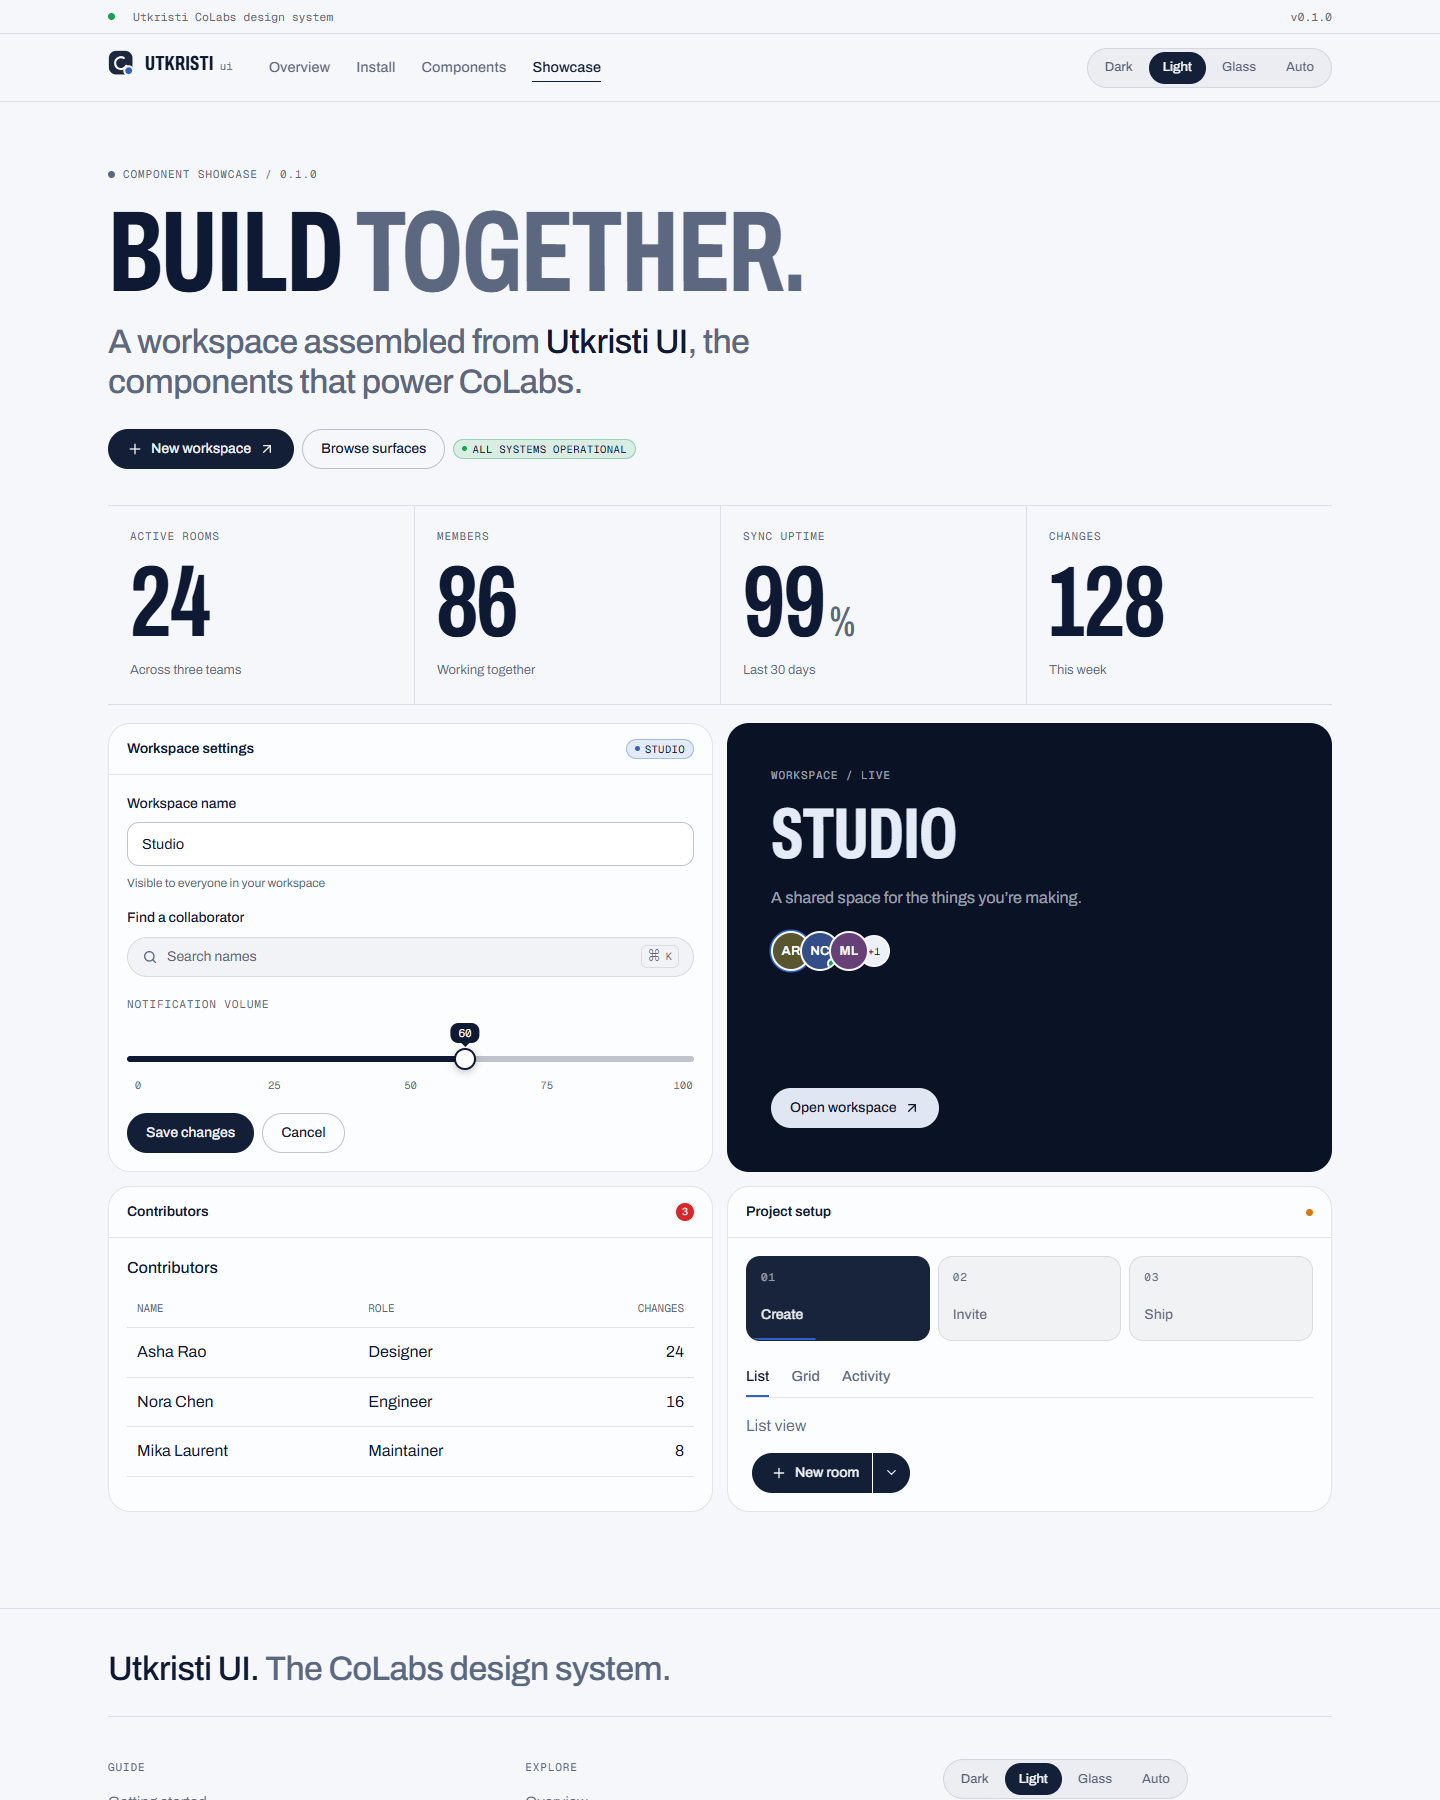
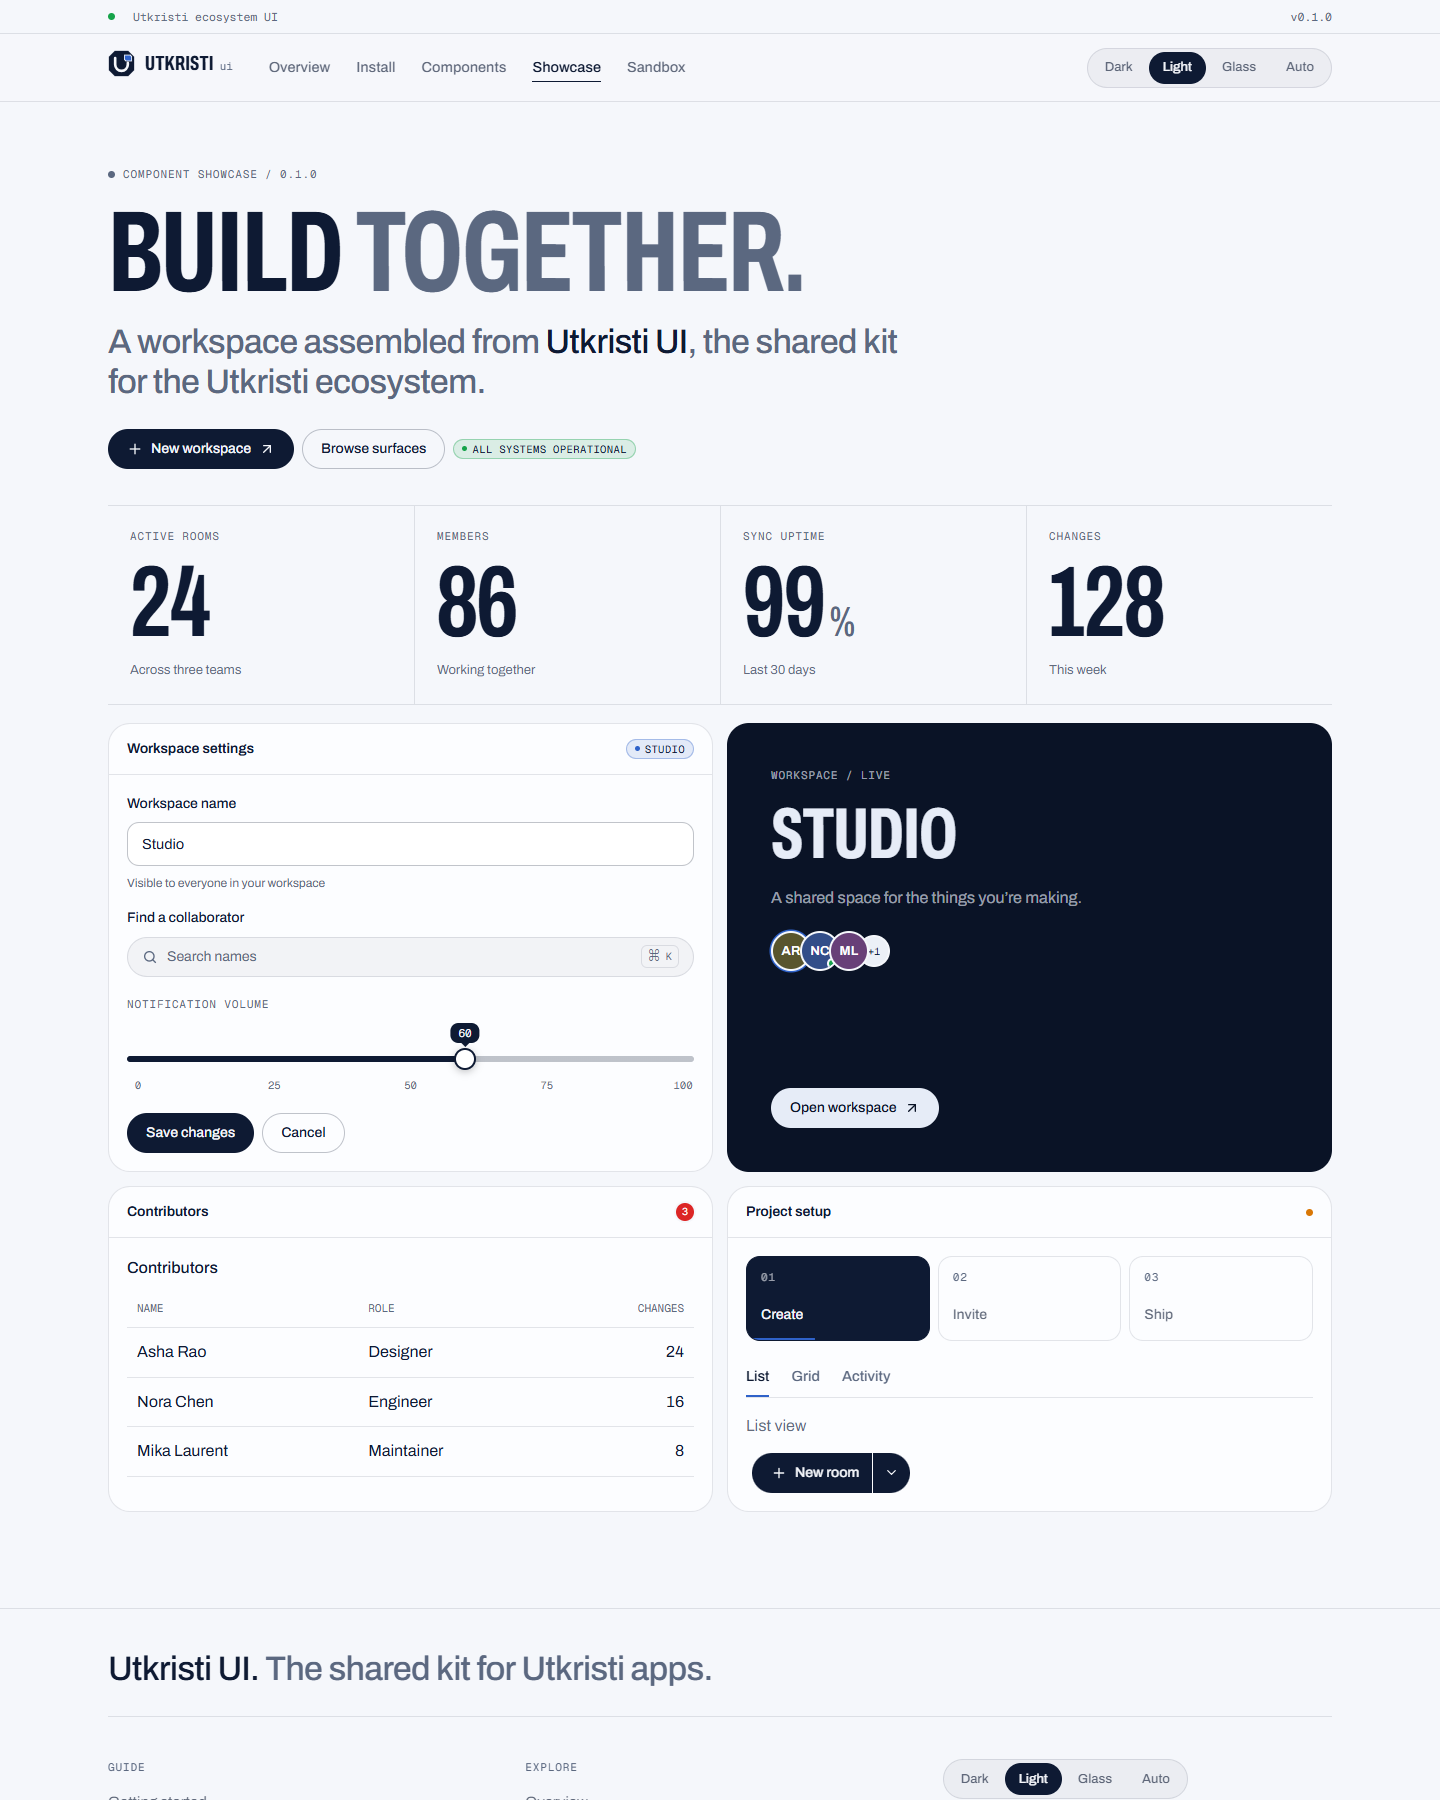
'v0.0.1'

diff --git a/docs/src/Playground.tsx b/docs/src/Playground.tsx
@@ -1,4 +1,4 @@
-import { useEffect, useRef, useState } from 'react';
+import { useEffect, useId, useRef, useState } from 'react';
 import { Button, Select, type ResolvedTheme, useTheme } from '@utkristi/ui';
 import { componentPages, examples as previews } from './examples';
 import { examples } from 'virtual:utkristi-examples';
@@ -15,6 +15,7 @@ interface Run { token: string; source: string; theme: ResolvedTheme; markup: boo
 
 export default function Playground({ component }: { component?: string }) {
   const { resolvedTheme } = useTheme();
+  const id = useId();
   const slug = component && Object.hasOwn(previews, component) ? component as keyof typeof previews : 'carousel';
   const example = previews[slug];
   const [theme, setTheme] = useState<ResolvedTheme>(resolvedTheme);
@@ -51,7 +52,7 @@ export default function Playground({ component }: { component?: string }) {
       }
       if (token !== String(requested.current)) return;
       setRun({ token, source: output, theme: previewTheme, markup: language === 'html' });
-      setStatus('Preview updated');
+      if (language === 'html') setStatus('HTML preview ready');
     } catch (cause) {
       if (token === String(requested.current)) setError(cause instanceof Error ? cause.message : String(cause));
     } finally {
@@ -62,15 +63,15 @@ export default function Playground({ component }: { component?: string }) {
   useEffect(() => {
     const initial = last.current;
     void compile(initial.code, initial.mode, initial.theme);
-    return () => { requested.current++; };
+    const pending = requested;
+    return () => { pending.current++; };
   }, []);
 
   useEffect(() => {
     function message(event: MessageEvent) {
-      if (event.source !== iframe.current?.contentWindow || event.data?.kind !== 'utkristi-preview-error'
-        || event.data.token !== run?.token) return;
-      setError(String(event.data.error));
-      setStatus('');
+      if (event.source !== iframe.current?.contentWindow || event.data?.token !== run?.token) return;
+      if (event.data?.kind === 'utkristi-preview-ready') setStatus('React preview ready');
+      if (event.data?.kind === 'utkristi-preview-error') { setError(String(event.data.error)); setStatus(''); }
     }
     window.addEventListener('message', message);
     return () => window.removeEventListener('message', message);
@@ -87,22 +88,22 @@ export default function Playground({ component }: { component?: string }) {
       <p className="lede">Edit a working example, run it in any theme, and copy the code into your app.</p>
     </header>
     <div className="playground-toolbar">
-      <label>Component<Select value={slug} onChange={(event) => {
+      <label htmlFor={id + "-component"}>Component<Select id={id + "-component"} value={slug} onChange={(event) => {
         window.location.hash = '/sandbox?component=' + encodeURIComponent(event.target.value);
       }}>{componentPages.map(([key, item]) => <option key={key} value={key}>{item.name}</option>)}</Select></label>
-      <label>Theme<Select value={theme} onChange={(event) => {
+      <label htmlFor={id + "-theme"}>Theme<Select id={id + "-theme"} value={theme} onChange={(event) => {
         const next = event.target.value as ResolvedTheme;
         setTheme(next);
         void compile(code, mode, next);
       }}><option value="dark">Night</option><option value="light">Paper</option><option value="glass">Glass</option></Select></label>
-      <label>Editor<Select value={mode} onChange={(event) => changeMode(event.target.value as 'react' | 'html')}>
+      <label htmlFor={id + "-mode"}>Editor<Select id={id + "-mode"} value={mode} onChange={(event) => changeMode(event.target.value as 'react' | 'html')}>
         <option value="react">React / TSX</option><option value="html">HTML / CSS / JS</option>
       </Select></label>
     </div>
     <div className="playground-result">
       <div className="playground-head"><span className="label">Live preview</span>
         <a className="link" href={`#/components/${slug}`}>Component docs</a></div>
-      {run ? <iframe key={run.token} ref={iframe} title={example.name + ' sandbox preview'} sandbox="allow-scripts"
+      {run ? <iframe key={run.token} ref={iframe} data-preview-run={run.token} title={example.name + ' sandbox preview'} sandbox="allow-scripts"
         srcDoc={run.markup ? frameHead.replace('<html>', '<html data-theme="' + run.theme + '">') + '<body>' + run.source + '</body></html>' : reactFrame}
         onLoad={() => {
           if (!run.markup) iframe.current?.contentWindow?.postMessage({

diff --git a/docs/playground-plugin.ts b/docs/playground-plugin.ts
@@ -76,11 +76,30 @@ function samples(file: string, text: string, recordName: string) {
   }));
 }
 
-function apiFor(source: string, requested: Set<string>) {
+function apiFor(docs: string, source: string, examples: ReturnType<typeof samples>) {
   const config = ts.readConfigFile(join(source, '../../tsconfig.json'), ts.sys.readFile);
   const options = ts.parseJsonConfigFileContent(config.config, ts.sys, join(source, '../..')).options;
   const entry = join(source, 'index.ts');
-  const program = ts.createProgram([entry], options);
+  const paths = new Map(Object.entries(examples).map(([key, example]) => [join(docs, 'src', key + '.example.tsx').replaceAll('\\', '/'), example.code]));
+  const host = ts.createCompilerHost(options);
+  const original = host.getSourceFile;
+  host.getSourceFile = (fileName, ...args) => {
+    const generated = paths.get(fileName.replaceAll('\\', '/')) ?? paths.get(fileName);
+    return generated === undefined ? original(fileName, ...args)
+      : ts.createSourceFile(fileName, generated, ts.ScriptTarget.Latest, true, ts.ScriptKind.TSX);
+  };
+  const program = ts.createProgram([entry, ...paths.keys()], options, host);
+  const failures = [...paths.keys()].flatMap((path) => {
+    const sample = program.getSourceFile(path);
+    if (!sample) throw new Error('Unable to load example ' + path);
+    return [...program.getSyntacticDiagnostics(sample), ...program.getSemanticDiagnostics(sample)];
+  });
+  if (failures.length) throw new Error(ts.formatDiagnosticsWithColorAndContext(failures, {
+    getCurrentDirectory: ts.sys.getCurrentDirectory,
+    getCanonicalFileName: (name) => name,
+    getNewLine: () => '\n',
+  }));
+  const requested = new Set(Object.values(examples).flatMap((sample) => sample.components));
   const checker = program.getTypeChecker();
   const file = program.getSourceFile(entry);
   const module = file && checker.getSymbolAtLocation(file);
@@ -114,8 +133,7 @@ export function docsPlayground(docs: string, source: string): Plugin {
           return samples(path, await readFile(path, 'utf8'), file);
         }));
         const examples = Object.assign({}, ...entries) as ReturnType<typeof samples>;
-        const requested = new Set<string>(Object.values(examples).flatMap((sample) => sample.components));
-        const api = apiFor(source, requested);
+        const api = apiFor(docs, source, examples);
         return `export const examples = ${JSON.stringify(examples)}; export const api = ${JSON.stringify(api)};`;
       }
       if (id === '\0' + prefix + 'runtime') {

diff --git a/docs/src/main.tsx b/docs/src/main.tsx
@@ -25,6 +25,7 @@ const guide = [
   { href: '#/theming', label: 'Theming' },
   { href: '#/tokens', label: 'Tokens' },
   { href: '#/typography', label: 'Typography' },
+  { href: '#/sandbox', label: 'Sandbox' },
 ];
 
 const themeLabels = { dark: 'Night', light: 'Paper', glass: 'Glass' } as const;
@@ -115,7 +116,7 @@ function Overview() {
       detail={<>A shared component library for <b>every Utkristi app</b>, packaged for Tailwind, plain CSS, and React.</>} />
     <div className="sample-row"><Button href="#/getting-started" iconRight={<ArrowRight size={17} />}>Get started</Button>
       <Button href="#/showcase" variant="ghost" iconRight={<ArrowUpRight size={16} />}>View showcase</Button>
-      <Button href="#/showcase?theme=glass" variant="ghost" iconRight={<ArrowUpRight size={16} />}>Preview Glass</Button></div>
+      <Button href="#/sandbox" variant="ghost" iconRight={<ArrowUpRight size={16} />}>Try the sandbox</Button></div>
     <div className="overview-grid">
       <Frame theme="dark"><Card><CardHeader><Logo /><Badge tone="accent">Night</Badge></CardHeader><CardBody>Warm ink, quiet borders, and blue accents.</CardBody></Card></Frame>
       <Frame theme="light"><Card><CardHeader><Logo /><Badge tone="accent">Paper</Badge></CardHeader><CardBody>Cool paper, dark ink, and the same component geometry.</CardBody></Card></Frame>

diff --git a/docs/src/playground-frame.tsx b/docs/src/playground-frame.tsx
@@ -1,4 +1,4 @@
-import React, { Component, type ReactNode } from 'react';
+import React, { Component, useEffect, type ReactNode } from 'react';
 import * as jsxRuntime from 'react/jsx-runtime';
 import { createRoot } from 'react-dom/client';
 import * as kit from '@utkristi/ui';
@@ -23,6 +23,11 @@ class PreviewBoundary extends Component<{ children: ReactNode; token: string }, 
   render() { return this.state.failed ? <p role="alert">The example could not render.</p> : this.props.children; }
 }
 
+function Ready({ token }: { token: string }) {
+  useEffect(() => { window.parent.postMessage({ kind: 'utkristi-preview-ready', token }, '*'); }, [token]);
+  return null;
+}
+
 window.addEventListener('message', (event) => {
   if (event.source !== window.parent || event.data?.kind !== 'utkristi-preview') return;
   const { code, theme, token } = event.data;
@@ -37,7 +42,7 @@ window.addEventListener('message', (event) => {
     if (!Example) throw new Error('Export a default React component.');
     root.render(<PreviewBoundary key={token} token={token}>
       <kit.ThemeProvider defaultTheme={theme} storageKey={null}><kit.ToastProvider>
-        <Example theme={theme} />
+        <Example theme={theme} /><Ready token={token} />
       </kit.ToastProvider></kit.ThemeProvider>
     </PreviewBoundary>);
   } catch (error) {

diff --git a/src/styles/base.css b/src/styles/base.css
@@ -1,7 +1,10 @@
 *, *::before, *::after { box-sizing: border-box; }
 
 html {
-  background: var(--ut-bg) var(--ut-canvas, none) no-repeat top / 100% 48rem;
+  background-color: var(--ut-bg);
+  background-image: var(--ut-canvas, none);
+  background-repeat: no-repeat;
+  background-size: 100% 48rem;
   color: var(--ut-ink);
   font-family: var(--ut-font-text);
   font-stretch: 100%;

diff --git a/DESIGN_TOKENS.md b/DESIGN_TOKENS.md
@@ -1,6 +1,6 @@
 # Design tokens and class map
 
-Utkristi UI is extracted from the Utkristi CoLabs app. Its source of truth is
+Utkristi UI is shared across the Utkristi ecosystem. The original Night and Paper reference is
 `rtm-code-editor/src/styles/app.css`: the tokens under `.ux, .ws` and `.light-theme .ux`, and the
 `.u-*` component classes. This file shows how each one is named in the kit.
 
@@ -136,3 +136,4 @@ Use `.glass` or `[data-theme="glass"]` for the third palette in `src/styles/toke
 These match the app: **980px** (the navbar links collapse into the burger), **700px** (the navbar is
 60px tall, modals become bottom sheets, steps stack) and **560px** (tighter modal padding, and
 `.table-stack` turns rows into cards).
+
